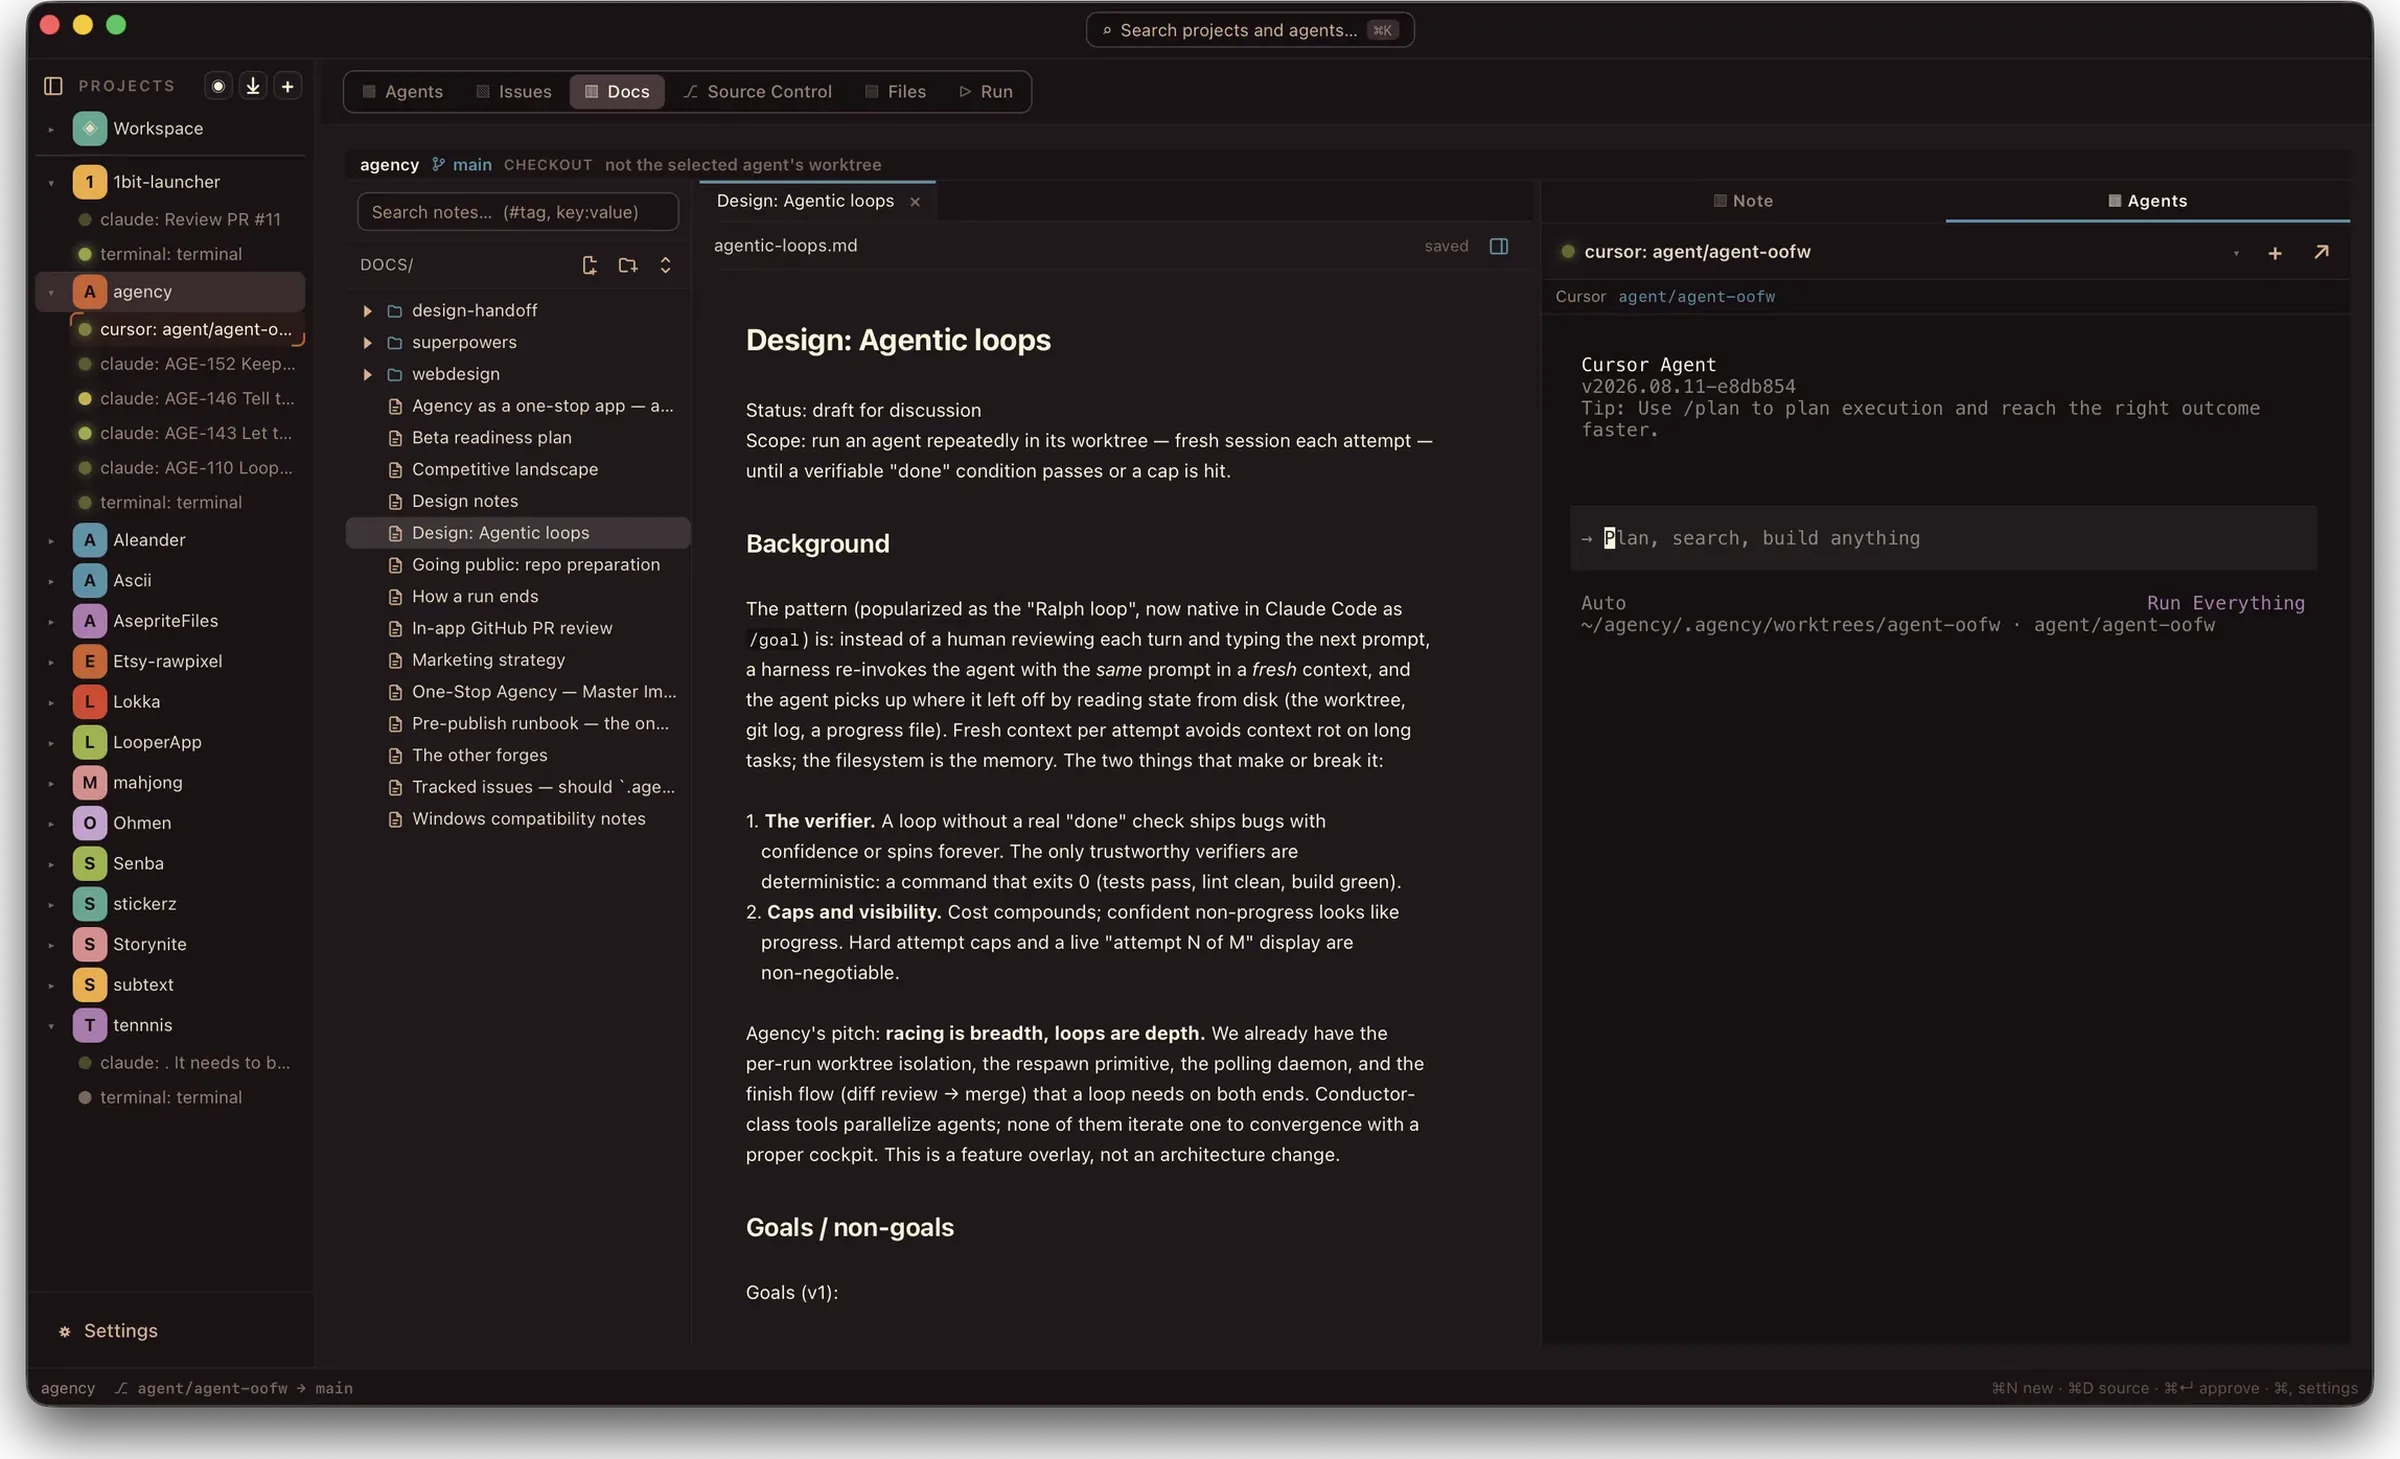
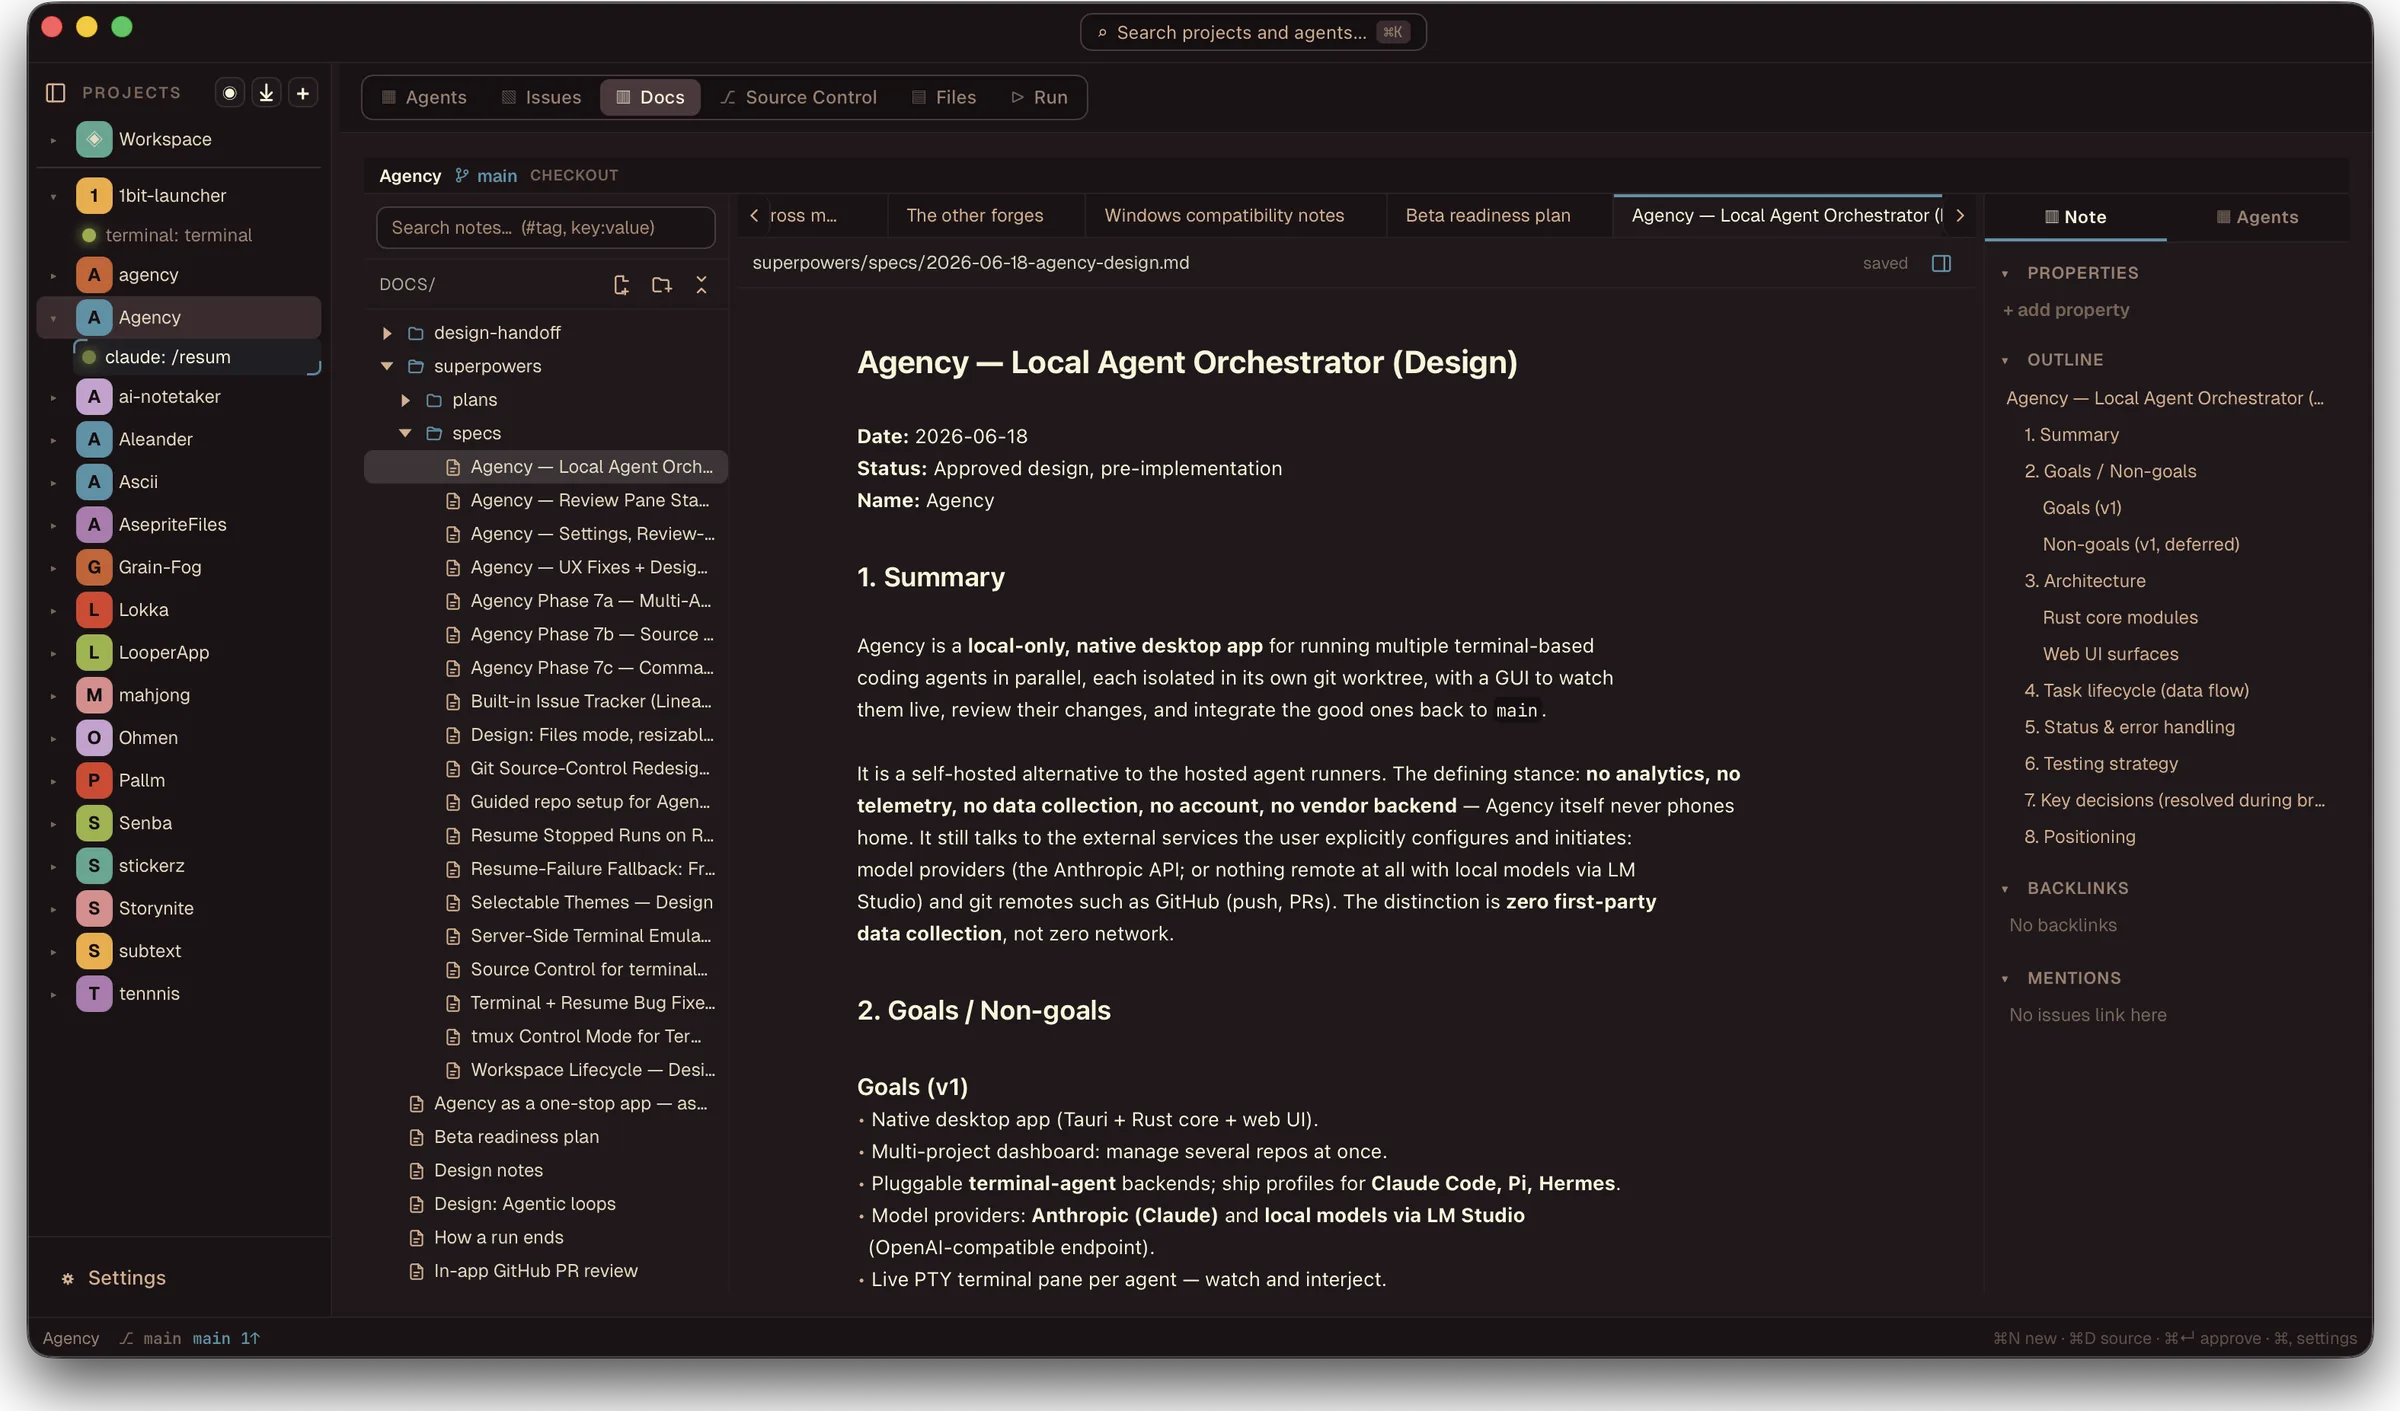
reshoot the docs screenshot off a note that names no competitor
The original capture had a design note open whose body used a rival product's
name as the label for the whole product category. Nothing in the repo's text
carries a competitor name; `.githooks/commit-msg` and a scan of every tracked
file, commit message and ref name all come back clean. This one was inside the
pixels of a WebP, where no hook or grep can reach it, on the home page.

The reason to drop it is positioning rather than etiquette: naming a rival as
the category is conceding the category, in your own marketing. The replacement
note happens to state the privacy claim in its canonical form, which the
surrounding copy is already making, and its right-hand panel shows the
properties, outline and backlinks that the section's body text lists. The
alt text described an agent in the side panel and now describes what is there.

Same treatment as the rest of the set, measured off the file being replaced
rather than assumed: a 2400-wide canvas holding a 2346-wide window with the
shadow margins at L27 T2 R27 B53, then `cwebp -q 82 -alpha_q 100 -m 6`. It
lands at 225 KB, mid-range for the five. The window's aspect differs from the
old one, so `index.html` carries height 1411; the attribute is there to reserve
layout space, and a stale value buys a layout shift on a lazy-loaded image.

The project names, home paths and hostname in the other four captures are
blessed rather than fixed, and site/README.md now records that instead of
still asking for the decision.

diff --git a/site/index.html b/site/index.html
@@ -140,8 +140,8 @@
 
     <div class="alt">
       <div class="alt-media shot">
-        <img src="/assets/img/shot-docs.webp" width="2400" height="1459" loading="lazy"
-          alt="The Docs tab: a rendered markdown note open in the editor with the notes tree on the left, and an agent running in the note's side panel on the right.">
+        <img src="/assets/img/shot-docs.webp" width="2400" height="1411" loading="lazy"
+          alt="The Docs tab: a rendered markdown design note open in the editor with the notes tree on the left, and the note's properties, outline and backlinks in the panel on the right.">
       </div>
       <div class="alt-text">
         <span class="eyebrow">Docs</span>

diff --git a/site/README.md b/site/README.md
@@ -84,7 +84,7 @@ against the shot list in `05-assets.md`:
 | `shot-overview.webp` | all-projects overview, 13 agents | stands in for SHOT-01 (hero) |
 | `shot-focus.webp` | focus view, agent working an issue | SHOT-02 |
 | `shot-issues.webp` | Issues board and detail (1bit-launcher) | SHOT-04/05 |
-| `shot-docs.webp` | note with an agent in the side panel | SHOT-06 |
+| `shot-docs.webp` | a design spec open, with its outline and backlinks panel | SHOT-06 |
 | `shot-merge.webp` | Source Control Changes, side-by-side diff | SHOT-11/12 |
 
 Still worth capturing, in value order: SHOT-01 proper (Agents tab, grid layout,
@@ -96,8 +96,13 @@ Regenerate site images from new captures with the same treatment: trim the
 transparent margin, resize to 2560 wide for the hero and 2400 for the rest,
 `cwebp -q 82 -alpha_q 100 -m 6`.
 
-**Check every capture against the exclusion list in `05-assets.md` before the
-site ships.** The current set is from the real working machine and shows real
-project names, `<home>/...` paths in agent output, and the machine
-hostname in a terminal prompt. That list rules those out, so either bless them
-deliberately or recapture from a demo repo before launch.
+**The exclusion list in `05-assets.md` was reviewed against this set and
+partly overruled, deliberately, on 2026-09-06.** The captures are from the real
+working machine and show real project names, `<home>/...` paths in agent output,
+and the machine hostname in a terminal prompt. Every project shown belongs to
+the author, none is client work, and a populated window is most of what makes
+the shots persuasive, so the list loses to that here. What was not blessed was
+a competitor's product name, legible in the body of the note in the original
+`shot-docs` capture; it was reshot rather than cropped, because using a rival's
+name as the label for your own product category concedes the category in your
+own marketing. Recheck a new capture for that, not for the project names.
